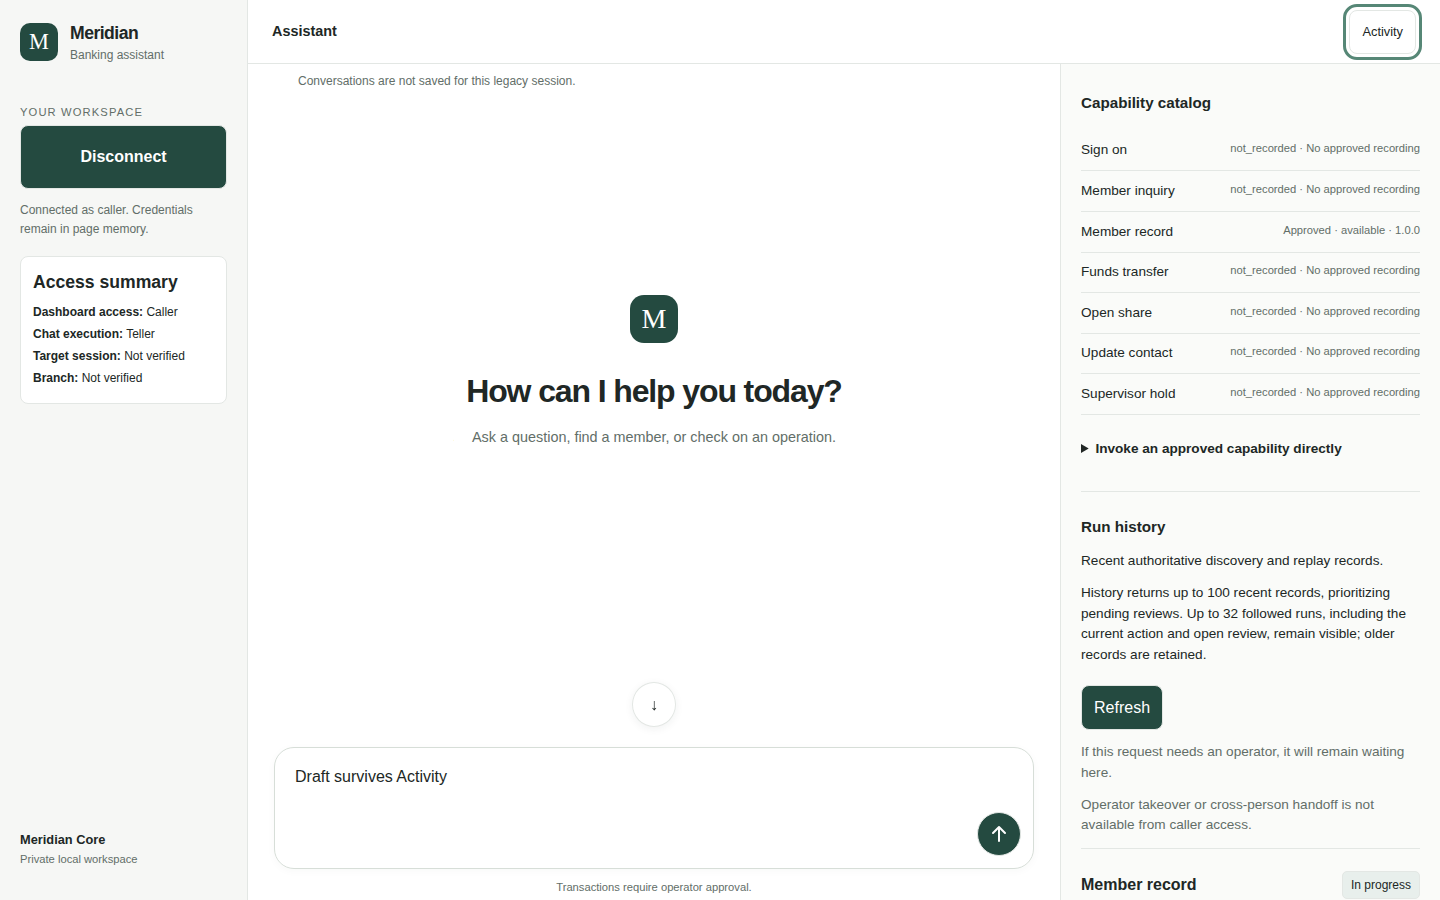
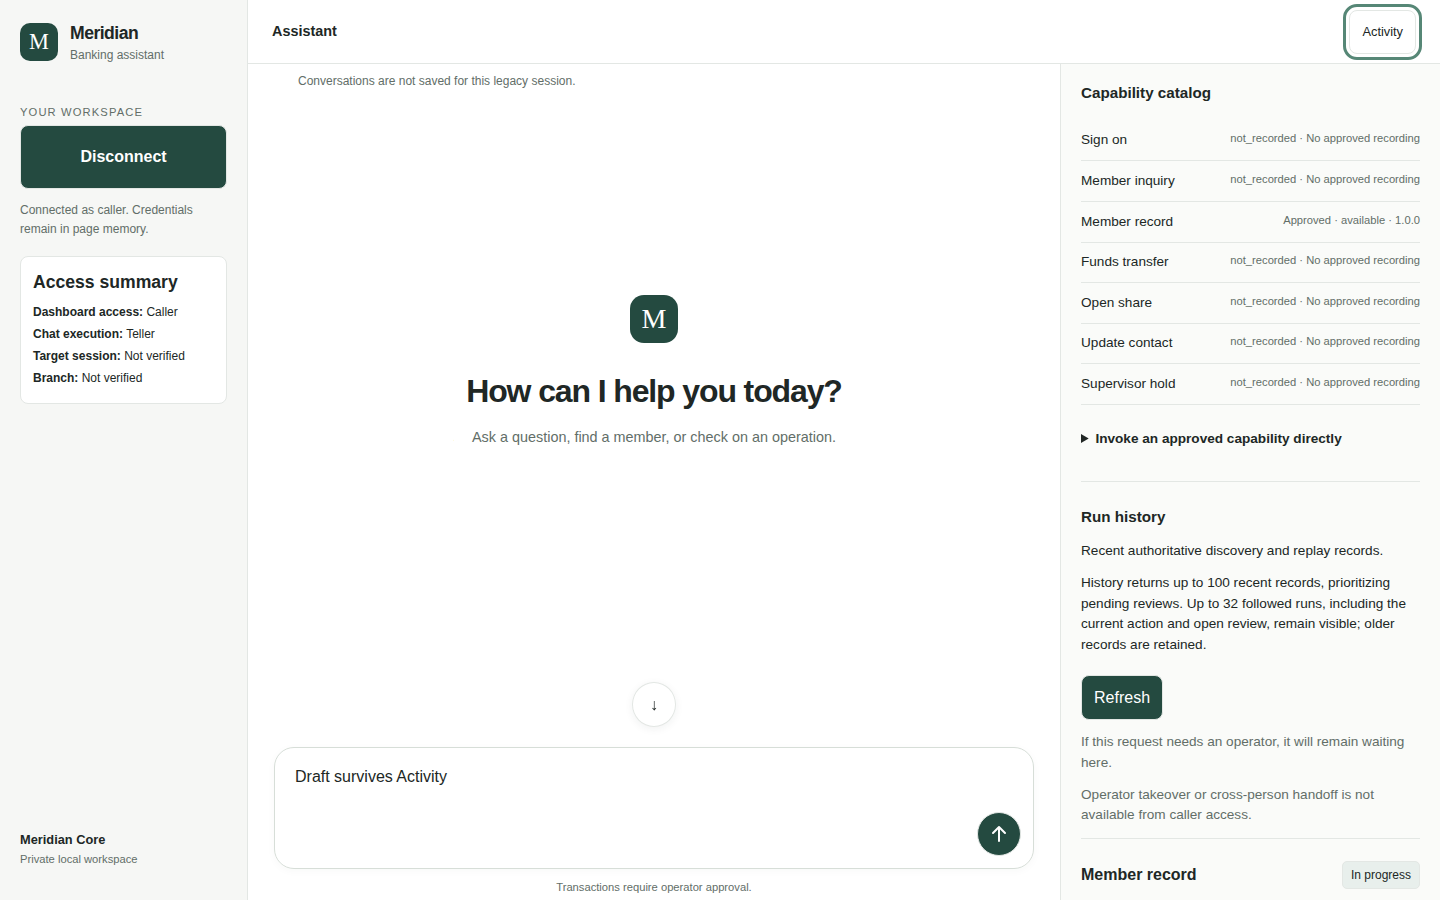
fix(ui): retain chat viewport geometry behind Activity

diff --git a/src/server/ui/style.css b/src/server/ui/style.css
@@ -55,8 +55,10 @@ section { min-width: 0; }
 .workspace-header > span { font-size: .9rem; font-weight: 550; }
 .workspace-header button { font-size: .8rem; }
 .review-count { margin-left: .5rem; color: #835b20; }
-.chat { min-height: 0; padding: 0; }
-#workspace[data-chat-hidden="true"] .chat { display: none; }
+.chat { grid-area: 2 / 1; min-height: 0; padding: 0; }
+/* Keep the scroll viewport measurable while Activity covers it. Zero-sized hidden
+   viewports re-arm assistant-ui's follow-bottom behavior during resize events. */
+#workspace[data-chat-hidden="true"] .chat { visibility: hidden; pointer-events: none; }
 .thread-root { height: 100%; min-height: 0; }
 .messages { display: flex; flex-direction: column; height: 100%; overflow-y: auto; overflow-x: hidden; padding: 0 1.5rem; scroll-padding-bottom: 1rem; }
 .conversation { width: 100%; max-width: 760px; margin: 0 auto; flex: 1; padding: 1.5rem 0; }
@@ -98,7 +100,7 @@ section { min-width: 0; }
 .conversation-status { max-width: 760px; margin: .5rem auto; padding: 0 1.5rem; color: var(--muted); font-size: .75rem; }
 .saved-run-card { display: grid; gap: .25rem; margin: .6rem 0; padding: .75rem; background: var(--cream); border: 1px solid var(--line); border-radius: 8px; font-size: .78rem; }
 .saved-run-card small { color: var(--muted); }
-.activity-panel { overflow: auto; border-left: 1px solid var(--line); padding: 1.25rem; background: #fafbf9; }
+.activity-panel { grid-area: 2 / 2; overflow: auto; border-left: 1px solid var(--line); padding: 1.25rem; background: #fafbf9; }
 .activity-back { display: none; width: fit-content; }
 #workspace[data-chat-hidden="true"] .activity-back { display: inline-flex; }
 .activity-panel > section + section { border-top: 1px solid var(--line); margin-top: 1.5rem; padding-top: 1rem; }
@@ -160,7 +162,7 @@ th { background: #eef2ed; }
 .sr-only { position: absolute; width: 1px; height: 1px; padding: 0; margin: -1px; overflow: hidden; clip-path: inset(50%); white-space: nowrap; border: 0; }
 @media (max-width: 1023px) {
   #workspace[data-activity-open="true"] { grid-template-columns: minmax(0, 1fr); }
-  .activity-panel { border-left: 0; }
+  .activity-panel { grid-column: 1; border-left: 0; }
 }
 @media (max-width: 700px) {
   .app-shell { grid-template-columns: minmax(0, 1fr); grid-template-rows: auto minmax(0, 1fr); }

diff --git a/test/chat-ui.test.ts b/test/chat-ui.test.ts
@@ -1260,6 +1260,11 @@ it('preserves the conversation across responsive Activity navigation', async () 
     if (width <= 768) {
       expect(await back.isVisible()).toBe(true);
       expect(await back.evaluate((node) => node === document.activeElement)).toBe(true);
+      await page.keyboard.press('Tab');
+      const disclosure = page.locator('summary').filter({ hasText: 'Invoke an approved capability directly' });
+      expect(await disclosure.evaluate(node => node === document.activeElement)).toBe(true);
+      await page.keyboard.press('Shift+Tab');
+      expect(await back.evaluate(node => node === document.activeElement)).toBe(true);
       await page.keyboard.press('Enter');
       expect(await activity.getAttribute('aria-expanded')).toBe('false');
       expect(await activity.evaluate((node) => node === document.activeElement)).toBe(true);
@@ -1431,8 +1436,20 @@ it('restores the latest scroll after wide Activity becomes narrow before closing
   });
   expect(await messages.evaluate((node) => (node as HTMLElement).scrollTop)).toBe(520);
   await page.setViewportSize({ width: 320, height: 900 });
+  await back.waitFor({ state: 'visible' });
+  // A queued viewport event must still observe the retained reading position while chat is visually hidden.
+  expect(await page.locator('.chat').isVisible()).toBe(false);
+  expect(await messages.evaluate(node => node.scrollTop)).toBe(520);
+  await messages.evaluate(node => node.dispatchEvent(new Event('scroll')));
   await back.click();
   await page.waitForFunction(() => (document.querySelector('.messages') as HTMLElement | null)?.scrollTop === 520);
+  expect(await messages.evaluate((node) => (node as HTMLElement).scrollTop)).toBe(520);
+  await settleConversationLayout(page);
+  // Later streamed content must not resume following the bottom after Activity hides a scrolled-up conversation.
+  await page.locator('.conversation').evaluate((node) => {
+    (node as HTMLElement).style.minHeight = '1202px';
+  });
+  await settleConversationLayout(page);
   expect(await messages.evaluate((node) => (node as HTMLElement).scrollTop)).toBe(520);
   expect(errors).toEqual([]);
 }, 15000);

diff --git a/src/server/ui/main.tsx b/src/server/ui/main.tsx
@@ -218,7 +218,6 @@ function Workspace() {
     return () => breakpoint.removeEventListener('change', changeLayout);
   }, [activityOpen]);
   useLayoutEffect(() => {
-    let restoreFrame: number | undefined;
     if (chatHidden && !chatWasHiddenRef.current) {
       const active = document.activeElement;
       if (focusBackAfterResizeRef.current || active === activityTriggerRef.current || document.querySelector('.chat')?.contains(active)) {
@@ -228,25 +227,13 @@ function Workspace() {
     }
     if (!chatHidden && chatWasHiddenRef.current) {
       const messages = document.querySelector<HTMLElement>('.messages');
-      const restoreScroll = () => {
-        if (messages) messages.scrollTop = messageScrollTopRef.current;
-      };
-      restoreScroll();
-      restoreFrame = requestAnimationFrame(() => {
-        restoreScroll();
-        restoreFrame = requestAnimationFrame(() => {
-          restoreScroll();
-        });
-      });
+      if (messages) messages.scrollTop = messageScrollTopRef.current;
     }
     if (!activityOpen && shouldRestoreConversationFocusRef.current) {
       activityTriggerRef.current?.focus();
       shouldRestoreConversationFocusRef.current = false;
     }
     chatWasHiddenRef.current = chatHidden;
-    return () => {
-      if (restoreFrame !== undefined) cancelAnimationFrame(restoreFrame);
-    };
   }, [activityOpen, chatHidden]);
   return <div id="workspace" data-activity-open={activityOpen} data-chat-hidden={chatHidden}>
     <div className="workspace-header">
